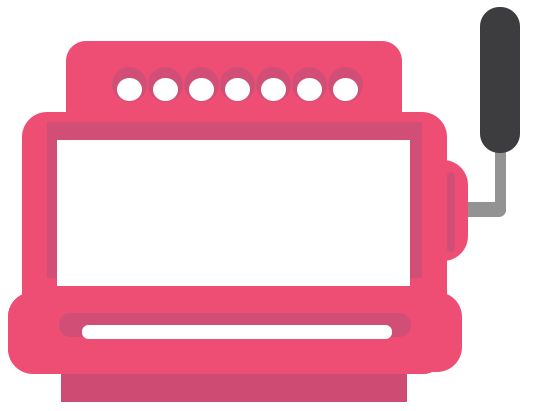
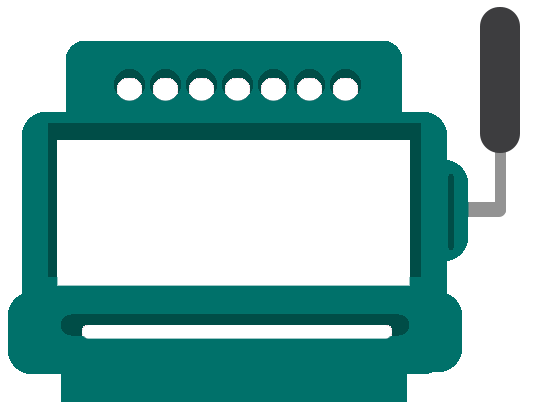
adding recent games tracker

diff --git a/index.html b/index.html
@@ -11,6 +11,7 @@
     <link rel="stylesheet" href="https://stackpath.bootstrapcdn.com/bootstrap/4.3.1/css/bootstrap.min.css"
         integrity="sha384-ggOyR0iXCbMQv3Xipma34MD+dH/1fQ784/j6cY/iJTQUOhcWr7x9JvoRxT2MZw1T" crossorigin="anonymous">
     <link rel="stylesheet" href="css/slot.css">
+    <link href="https://fonts.googleapis.com/css?family=Gugi|Modak" rel="stylesheet">
 
     <script src="node_modules/jquery/dist/jquery.min.js"></script>
     <script src="node_modules/jquery-slotmachine/dist/slotmachine.min.js"></script>
@@ -26,42 +27,69 @@
 </head>
 
 <body>
+    <div class="row">
+        <div class="col">
+            <div class="jumbotron text-center">
+                <h1 class="display-3">RULES</h1>
+                <h3>3 Bobs: Easy Question</h3>
+                <br>
+                <h3>2 Bobs: Medium Question</h3>
+                <br>
+                <h3>1 Bob: Hard Question</h3>
+            </div>
+            <div id ="stats" class="jumbotron text-center">
+                <h1 class="display-3">Stats so far</h1>
+                <h3 id="ez"></h3>
+                <h3 id="med"></h3>
+                <h3 id="hard"></h3>
+            </div>
+            <div class="jumbotron text-center">
+                <h1 class="display-3">Stats so far</h1>
+                <ol>
 
-    <div id="bob" style="padding-top:50px;">
-
-        <div class="content">
-            <h1>Bob-O-Matic</h1>
-            <div>
-                <div id="bob1" class="slotMachine" style="margin-left: -65px;">
-                    <div class="slot slot1"></div>
-                    <div class="slot slot4"></div>
-                    <div class="slot slot6"></div>
-                </div>
-
-                <div id="bob2" class="slotMachine">
-                    <div class="slot slot1"></div>
-                    <div class="slot slot4"></div>
-                    <div class="slot slot6"></div>
-                </div>
-
-                <div id="bob3" class="slotMachine">
-                    <div class="slot slot1"></div>
-                    <div class="slot slot4"></div>
-                    <div class="slot slot6"></div>
-                </div>
-
-                <div class="btn-group btn-group-justified" role="group">
-                    <button id="bobShuffle" type="button" class="btn btn-primary btn-lg">Shuffle!</button>
-                    <button id="bobStop" type="button" class="btn btn-primary btn-lg">Stop!</button>
-                </div>
+                </ol>
             </div>
         </div>
-        <div class="row-fluid my-5">
-            <div class="jumbotron">
-                <h1 class="display-3" id="question"></h1>
+        <div class="col">
+            <div id="bob" style="padding-top:50px;">
+
+                <div class="content">
+                    <h1 class="display-4">Bob-O-Matic</h1>
+                    <div>
+                        <div id="bob1" class="slotMachine" style="margin-left: -65px;">
+                            <div class="slot slot1"></div>
+                            <div class="slot slot4"></div>
+                            <div class="slot slot6"></div>
+                        </div>
+
+                        <div id="bob2" class="slotMachine">
+                            <div class="slot slot1"></div>
+                            <div class="slot slot4"></div>
+                            <div class="slot slot6"></div>
+                        </div>
+
+                        <div id="bob3" class="slotMachine">
+                            <div class="slot slot1"></div>
+                            <div class="slot slot4"></div>
+                            <div class="slot slot6"></div>
+                        </div>
+
+                        <div class="btn-group btn-group-justified" role="group">
+                            <button id="bobShuffle" type="button" class="btn btn-primary btn-lg">Spin</button>
+                            <button id="bobStop" type="button" class="btn btn-primary btn-lg">Stop!</button>
+                        </div>
+                    </div>
+                </div>
+                <div class="row-fluid my-5">
+                    <div class="jumbotron">
+                        <h1 class="display-3" id="question"></h1>
+                    </div>
+                </div>
             </div>
         </div>
     </div>
+
+
     <script src="https://code.jquery.com/jquery-3.3.1.slim.min.js"
         integrity="sha384-q8i/X+965DzO0rT7abK41JStQIAqVgRVzpbzo5smXKp4YfRvH+8abtTE1Pi6jizo" crossorigin="anonymous">
     </script>
@@ -76,6 +104,11 @@
         let s1 = 0;
         let s2 = 0;
         let s3 = 0;
+        var ez = 0;
+        var med = 0;
+        var hard = 0;
+        var totalStat = 0;
+        var difficultyBoolean = "";
         const btnShuffle = document.querySelector('#bobShuffle');
         const btnStop = document.querySelector('#bobStop');
         const bob1 = document.querySelector('#bob1');
@@ -83,7 +116,8 @@
         const bob3 = document.querySelector('#bob3');
         const mbob1 = new SlotMachine(bob1, {
             active: 0,
-            delay: 500
+            delay: 500,
+            direction: 'up'
         });
 
         const mbob2 = new SlotMachine(bob2, {
@@ -94,16 +128,28 @@
             active: 2,
             delay: 500
         });
+        $(document).ready(function(){
+            $("#stats").hide();
+        });
         btnShuffle.addEventListener('click', () => {
             document.getElementById('question').innerHTML = '';
             count = 3;
-            var ez = false;
-            var med = false;
-            var hard = false;
+            mbob3.shuffle(9999);
             mbob1.shuffle(9999);
             mbob2.shuffle(9999);
-            mbob3.shuffle(9999);
+
+
         });
+
+        function slotStats() {
+            totalStat = ez + med + hard;
+            document.getElementById('ez').innerHTML = 'Easy questions given ' + (ez / totalStat * 100).toFixed(2) +
+                '% of the time';
+            document.getElementById('med').innerHTML = 'Medium questions given ' + (med / totalStat * 100).toFixed(2) +
+                '% of the time';
+            document.getElementById('hard').innerHTML = 'Hard questions given ' + (hard / totalStat * 100).toFixed(2) +
+                '% of the time';
+        }
 
         btnStop.addEventListener('click', () => {
             switch (count) {
@@ -124,23 +170,26 @@
             if (count === 0) {
                 if (s1 === s2 && s2 === s3 && s1 === s3) {
                     document.getElementById('question').innerHTML = 'Easy question!';
-                    m1 += 1;
-                    
+                    ez += 1;
+                    difficultyBoolean = "Easy";
+                    slotStats();
                 }
                 if ((s1 === s2 || s2 === s3 || s1 === s3) && !(s1 === s2 && s2 === s3 && s1 === s3)) {
                     document.getElementById('question').innerHTML = 'Medium question!';
-                    m2 += 1;
-                } 
-                if(s1 != s2 && s2 != s3 && s1 != s3){
-                    document.getElementById('question').innerHTML = 'Hard question!';
-                    m3 += 1;
+                    med += 1;
+                    difficultyBoolean = "Medium";
+                    slotStats();
                 }
+                if (s1 != s2 && s2 != s3 && s1 != s3) {
+                    document.getElementById('question').innerHTML = 'Hard question!';
+                    hard += 1;
+                    difficultyBoolean = "Hard";
+                    slotStats();
+                }
+                $("ol").append("<li>" + difficultyBoolean + " Question</li>");
             }
         });
-    
     </script>
-    <!-- Optional JavaScript -->
-    <!-- jQuery first, then Popper.js, then Bootstrap JS -->
 </body>
 
 </html>

diff --git a/css/slot.css b/css/slot.css
@@ -1,11 +1,6 @@
-@charset "utf-8";
-/* CSS Document */
-
-@import url(https://fonts.googleapis.com/css?family=Roboto);
-/* @import url(http://fonts.googleapis.com/css?family=Pathway+Gothic+One); */
 
 * {
-  font-family: 'Roboto', sans-serif;
+  font-family: 'Modak', cursive;
 }
 
 code {
@@ -33,7 +28,9 @@ h1 {
   text-align: center;
   padding-bottom: 25px;
 }
-
+h3{
+  font-family: sans-serif;
+}
 .container {
   padding-top: 50px;
   padding-bottom: 50px;
@@ -79,13 +76,12 @@ a:hover{
   background-image: url("../img/slot6.png");
 }
 
+.jumbotron{
+  background-color: transparent;
+}
 /*
  * Bob
  */
-#bob {
-  
-}
-
 #bob .content:nth-child(1) {
   text-align: center;
   background: url('../img/machine.png') no-repeat 50% 80px;
@@ -107,22 +103,49 @@ a:hover{
 
 .slotMachine{
   width: 36.333333%;
-  border: 5px solid #CF5178;
+  border: 5px solid #00716a;
   height: 100px;
   display: inline-block;
 }
 
 #bob .btn-group {
-  margin-top: 150px;
-  transform: translateX(-25px);
+  margin-top: 10rem;
+  transform: translateX(-15%);
+  font-family: 'Gugi', cursive;
 }
 
 #bob .btn-group .btn {
   border: none;
-  background-color: rgb(209, 79, 119);
+  border-radius: 50%;
+  background-color: #00716a;
+  padding: 3rem;
+  margin: 0 15px;
 }
 
 #bob .btn-group .btn:hover, .btn-group .btn:focus {
   background-color: rgb(180, 75, 119);
+}
+.jumbotron.text-center:nth-child(3){
+  padding-top: 0;
+}
+
+jumbotron ol {
+  list-style-type: none;
+  margin-left: 0;
+}
+
+jumbotron ol > li {
+  counter-increment: customlistcounter;
+}
+
+jumbotron ol > li:before {
+  content: counter(customlistcounter) " ";
+  font-weight: bold;
+  float: left;
+  width: 3em;
+}
+
+jumbotron ol:first-child {
+  counter-reset: customlistcounter;
 }
 
